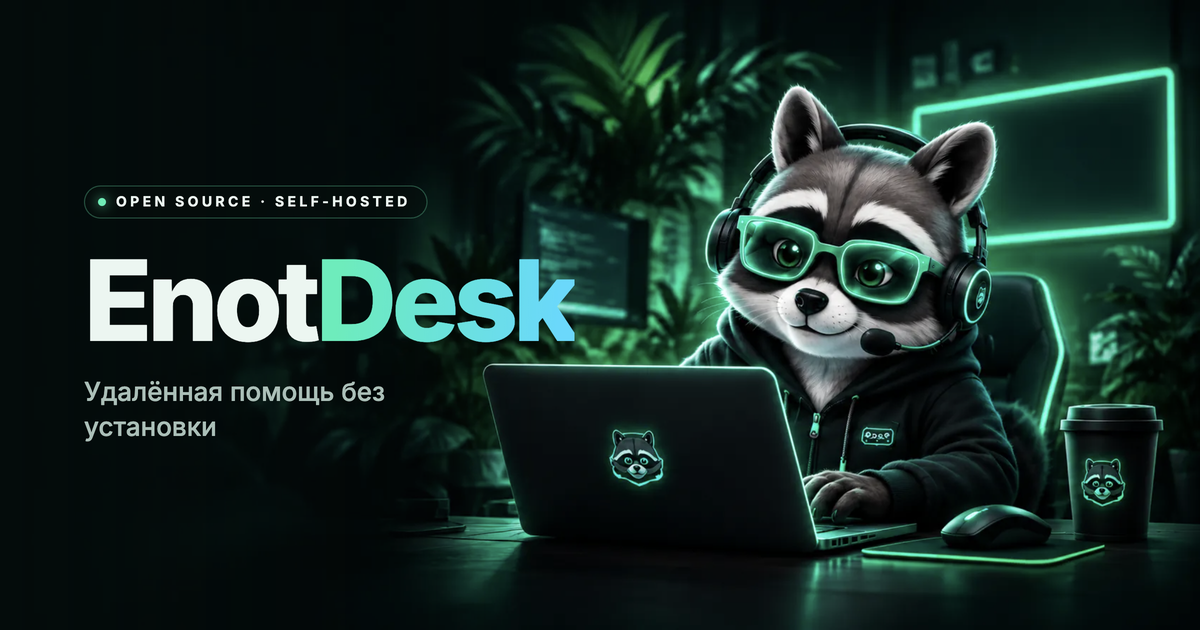
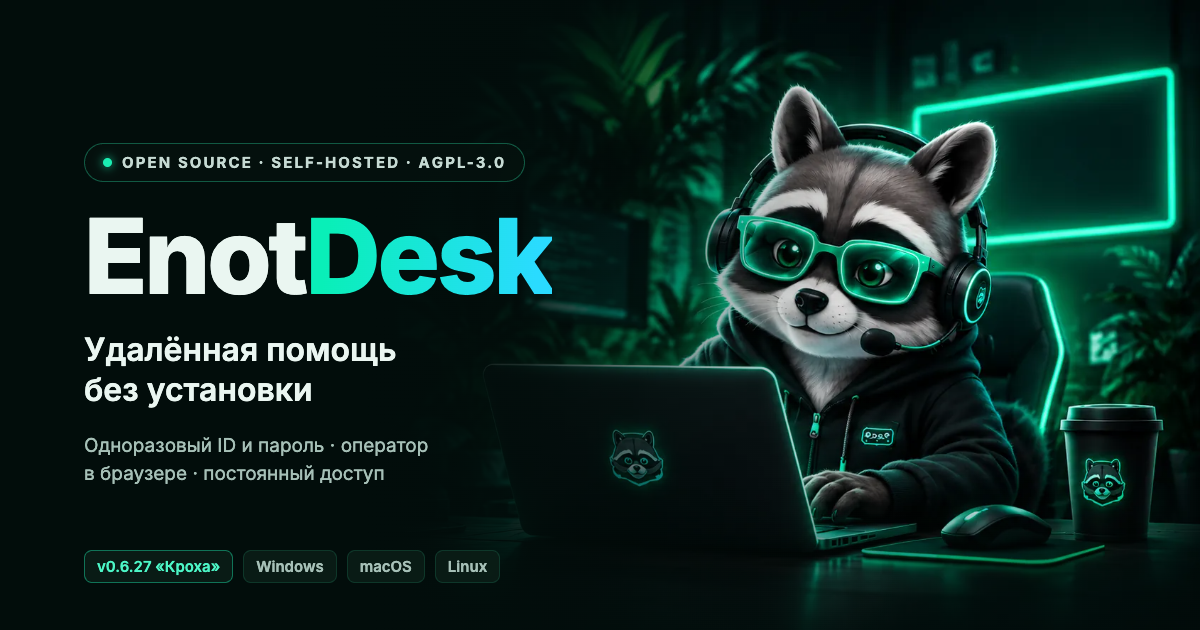
Соцпревью и og-картинка: версия 0.6.27, платформы, воспроизводимый скрипт
scripts/make-social.mjs рисует обе картинки из арта героя и токенов Neon Emerald
через Electron (без зависимостей): social-preview.png 1280×640 для GitHub — на
английском, og-neon.png 1200×630 для витрины — на русском. Добавлены лицензия,
короткое описание возможностей, версия с кодовым именем и платформы.
Запуск: npx electron@44.9.0 scripts/make-social.mjs (версия — из package.json).

diff --git a/AGENTS.md b/AGENTS.md
@@ -27,7 +27,7 @@ client/agent-service/  службы агента: Windows (sc.exe), Linux (syste
 web/         единственная программа оператора /operator, её же показывает desktop (operator.html, operator.mjs, input-source.mjs, team.js, records.js — контакты/история/журнал/CSV, account.js — пароль и 2FA; ADR 0033)
 helper/video/  Rust-хелпер Windows: захват DXGI/GDI и ввод в консольной сессии, named pipe (ADR 0027)
 docker/ Dockerfile compose.yaml   серверный стек
-scripts/     quick-setup.sh, install-server.sh, deploy-server.sh, smoke-local.mjs, smoke-remote.mjs, make-icons.mjs, make-mascot.mjs
+scripts/     quick-setup.sh, install-server.sh, deploy-server.sh, smoke-local.mjs, smoke-remote.mjs, make-icons.mjs, make-mascot.mjs, make-social.mjs (картинки соцпревью)
 site/        публичная витрина (GitHub Pages)
 docs/        SESSION_PROTOCOL, SERVER, AGENT, WEB-OPERATOR, BUILD, MANUAL-QA, ROADMAP, LAB, adr/0001–0033
 ```
